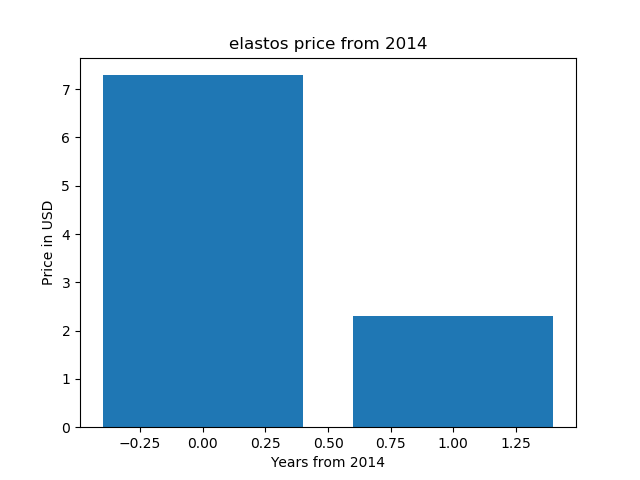
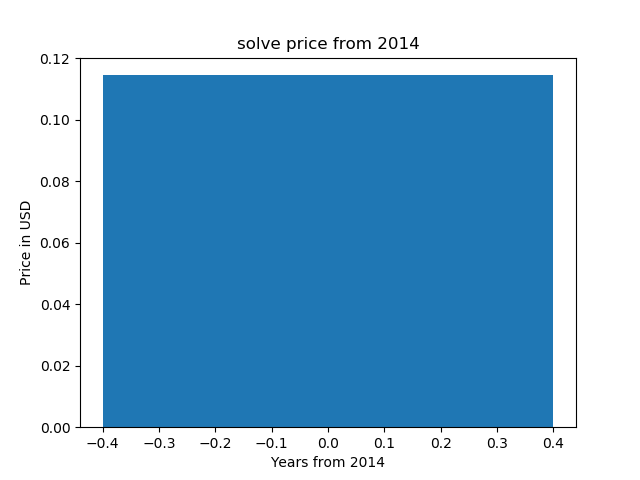
first commit

diff --git a/example.py b/example.py
@@ -10,7 +10,7 @@ from time import gmtime, strftime
 import matplotlib.pyplot as plt
 
 enddate = strftime("%Y%m%d", gmtime())
-r  = requests.get("https://coinmarketcap.com/currencies/elastos/historical-data/?start=20140101&end={0}".format(enddate))
+r  = requests.get("https://coinmarketcap.com/currencies/solve/historical-data/?start=20140101&end={0}".format(enddate))
 data = r.text
 
 soup = BeautifulSoup(data, "html.parser")
@@ -44,7 +44,7 @@ print(x)
 
 x = list(range(0, len(prices)))
 
-plt.title('elastos price from 2014')
+plt.title('solve price from 2014')
 plt.ylabel('Price in USD')
 plt.xlabel('Years from 2014')
 plt.bar(x, prices)

diff --git a/README.md b/README.md
@@ -1,6 +1,6 @@
-# elastos price chart 
+# solve price chart 
 
-elastos price chart (matplotlib, python)
+solve price chart (matplotlib, python)
 
 https://pythonprogramminglanguage.com
 
